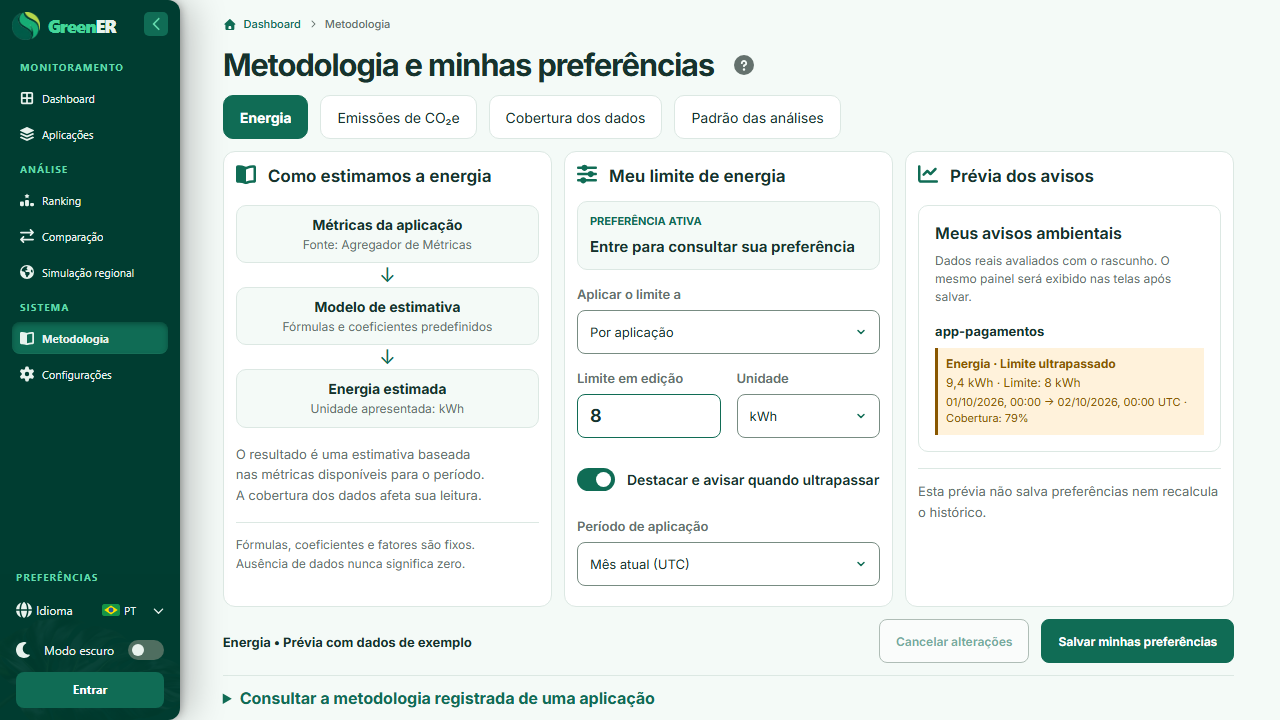
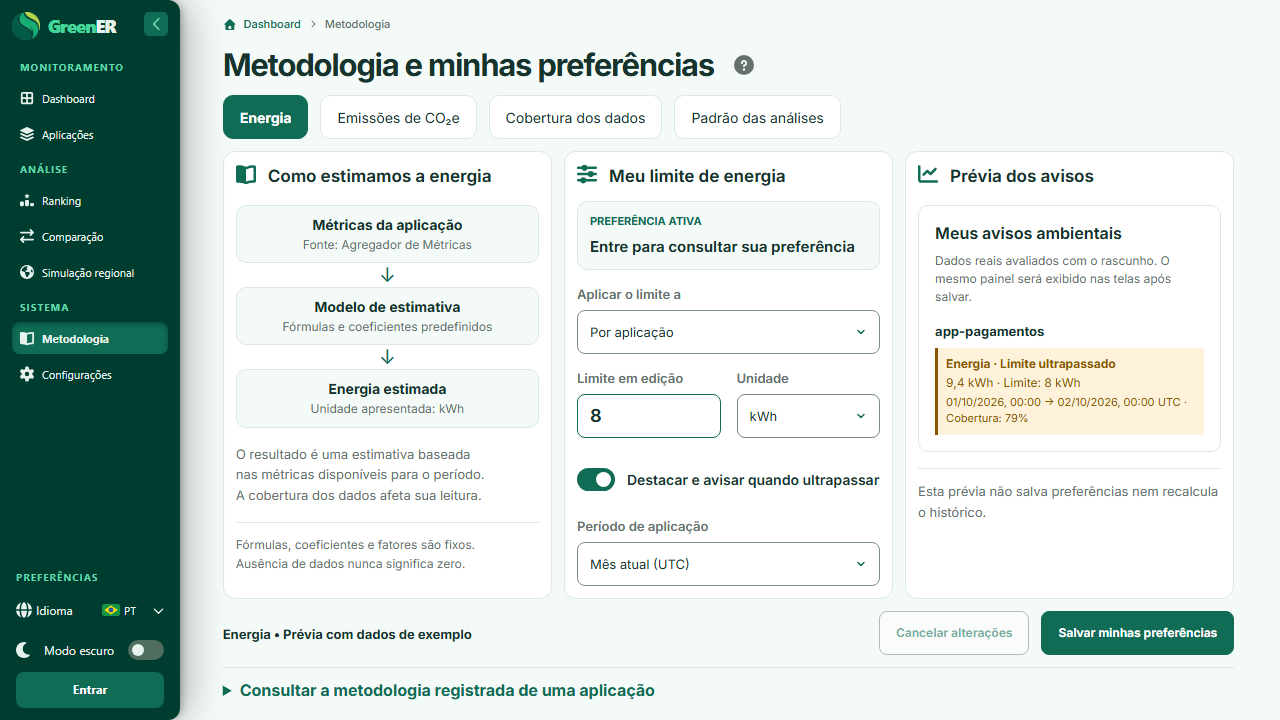
fix(frontend): manter cards proporcionais e integrar acesso à tabela

Changed region(s): [[0.6875, 0.825, 0.9688, 0.9472], [0.1562, 0.8556, 0.375, 0.9167], [0.1562, 0.9472, 0.5312, 0.9778]]

diff --git a/frontend/tests/integration/quality-flow.spec.ts b/frontend/tests/integration/quality-flow.spec.ts
@@ -1,5 +1,6 @@
 import { test, expect } from '@playwright/test'
 import { formatNumber } from '../../src/utils/formatNumber.ts'
+import { openDashboardApplications } from '../../e2e/support/dashboard.ts'
 
 test('dashboard → detail → history → back reconciles real persisted data and preserves context', async ({ page }) => {
   await page.clock.setFixedTime(new Date())
@@ -22,6 +23,7 @@ test('dashboard → detail → history → back reconciles real persisted data a
   expect(await dashboardSeries.locator('svg rect').count()).toBeGreaterThan(0)
 
   const detailResponse = page.waitForResponse((response) => new URL(response.url()).pathname === '/applications/quality-api/analysis')
+  await openDashboardApplications(page)
   await page.getByRole('link', { name: 'Ver detalhes: Quality api', exact: true }).click()
   await expect(page).toHaveURL(/\/services\/quality-api\?.*period=24h/)
   const detail = await (await detailResponse).json()

diff --git a/frontend/src/pages/methodology/Preferences.module.css b/frontend/src/pages/methodology/Preferences.module.css
@@ -154,7 +154,7 @@
   .page { display: flex; flex-direction: column; height: 100%; min-height: 0; }
   .tabs { flex: 0 0 auto; gap: 12px; margin-bottom: var(--workspace-space, 12px); }
   .tabs button { flex: 0 1 auto; }
-  .columns { grid-template-columns: repeat(3, minmax(0, 1fr)); grid-template-rows: minmax(0, 1fr); flex: 1; min-height: 300px; max-height: 680px; gap: var(--workspace-space, 12px); }
+  .columns { grid-template-columns: repeat(3, minmax(0, 1fr)); grid-template-rows: minmax(0, 1fr); flex: 0 1 auto; min-height: 300px; max-height: 680px; gap: var(--workspace-space, 12px); }
   .card { min-height: 0; padding: clamp(12px, 1.5dvh, 20px); overflow: auto; }
   .preview { grid-column: auto; }
   .footer { display: grid; grid-template-columns: minmax(0, 1fr) auto; flex-shrink: 0; gap: 12px; margin-top: var(--workspace-space, 12px); }
